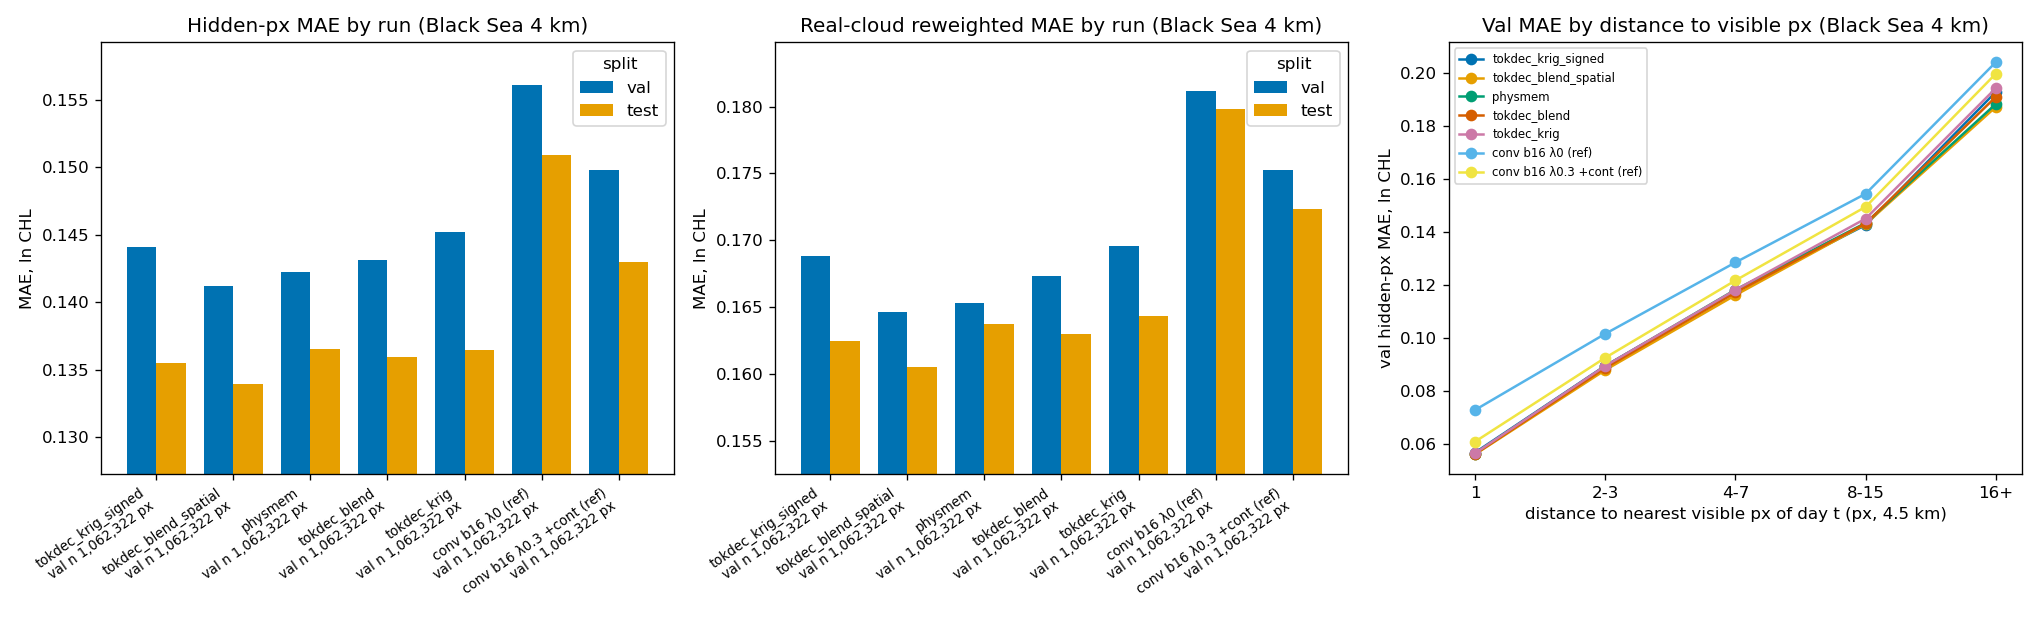
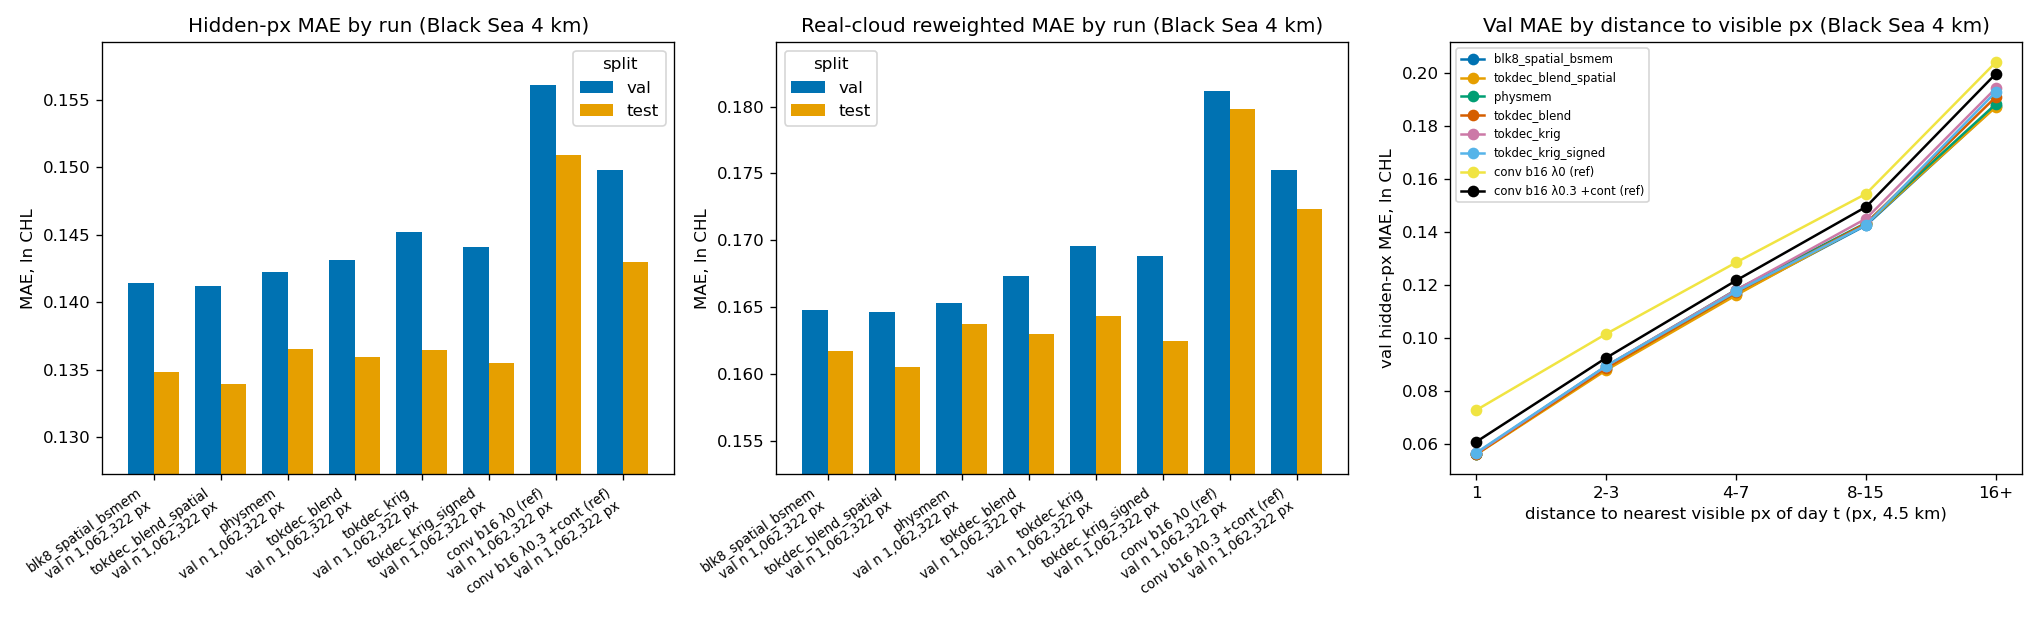
minor updates

diff --git a/analyses/FINDINGS.md b/analyses/FINDINGS.md
@@ -1067,3 +1067,59 @@ Cost: λ 0.3 median 107 s/epoch, peak 11.0 GB allocated / 15.0 GB reserved; λ 0
 - Half table n: A 2,022,116 px, B 2,976,526 px, test 5,522,954 px. Out-of-sample fitted − ens11_mean: half B (fitA) +0.00006, half A (fitB) -0.00026; test fitA -0.00014, fitB -0.00016.
 - Members' half MAE (A / B): io6_tokdec_blend_spatial 0.1323/0.1235, io4_tokdec_blend 0.1331/0.1238, io3_ptok4 0.1341/0.1242, io2_base_eval 0.1371/0.1254, io2_seed1 0.1365/0.1258, io2_seed2 0.1368/0.1260, io7_physmem 0.1316/0.1232, io6_tokdec_blend_spatial_s1 0.1321/0.1231, io6_tokdec_blend_spatial_s2 0.1321/0.1229, io7_wmattn 0.1336/0.1242, io7_analog 0.1326/0.1234.
 - Results results/ensemble.json; figure figures/ens_models.png.
+
+## io7 postrun: io7_physmem_s1 (IO; 2026-10-26 22:41 UTC; analyses/io7/postrun.py)
+- Run: t3d_stem tokdec, tokdec_blend True, tokdec_spatial 2, seed 1, epochs 60, batch 8, best_epoch 55. Val n: 1458 days, 4,998,642 hidden px; test n: 1463 days, 5,522,954.
+- Val / test MAE 0.126929 / 0.127905; RMSE 0.2194 / 0.2269; bias -0.0189 / -0.0197; non-finite 0 / 0.
+- Δ vs io6_tokdec_blend_spatial (0.127060 / 0.127516): val -0.00013, test +0.00039; ≥ 1 key +0.00041 / +0.00067; no key -0.00382 / -0.00278; real-cloud rw -0.00059 / -0.00011.
+- Δ vs io4_tokdec_blend (0.127585 / 0.127977): val -0.00066, test -0.00007; ≥ 1 key +0.00014 / +0.00052; no key -0.00610 / -0.00679; real-cloud rw -0.00135 / -0.00119.
+- Key split val / test: ≥ 1 key 0.11055 (n 4,359,604) / 0.11569 (n 5,074,031); no key 0.23867 (n 639,038) / 0.26602 (n 448,923).
+- Real-cloud reweighted MAE val / test: 0.15123 / 0.16951 (target: val real-cloud px, n 17,084,105; uncovered mass 0.0000 / 0.0000; test with the test days' real-cloud target 0.15177); io6_tokdec_blend_spatial 0.15182 / 0.16962, io4_tokdec_blend 0.15258 / 0.17071.
+- Gradient ratio/corr lags 1, 2, 4 px: val 0.546/0.627, 0.648/0.730, 0.745/0.813; test 0.564/0.628, 0.667/0.734, 0.762/0.819 (val lag-1 pairs 8,403,189).
+- Seed context io7_physmem (n 2: io7_physmem, io7_physmem_s1): val MAE mean 0.126746 [0.126563, 0.126929], run − mean +0.00018 (inside range); test MAE mean 0.127395 [0.126886, 0.127905], run − mean +0.00051 (inside range); real-cloud rw val mean 0.151042 [0.150853, 0.151231], run − mean +0.00019 (inside range); test mean 0.168481 [0.167446, 0.169515], run − mean +0.00103 (inside range).
+- Seed context io6_spatial (n 3: io6_tokdec_blend_spatial, io6_tokdec_blend_spatial_s1, io6_tokdec_blend_spatial_s2): val MAE mean 0.126802 [0.126605, 0.127060], run − mean +0.00013 (inside range); test MAE mean 0.127369 [0.127239, 0.127516], run − mean +0.00054 (outside range); real-cloud rw val mean 0.151392 [0.151021, 0.151820], run − mean -0.00016 (inside range); test mean 0.169290 [0.168915, 0.169622], run − mean +0.00022 (inside range).
+- Val MAE gain over conv ±4 seed 0 by distance to visible px (conv − run): 1 px +0.00032 (n 1,213,097), 2-3 px +0.00014 (n 898,560), 4-7 px +0.00091 (n 1,048,246), 8-15 px +0.00249 (n 880,930), 16+ px +0.01306 (n 957,809).
+
+## io7 postrun: io8_physmem_rwloss (IO; 2026-10-27 01:42 UTC; analyses/io7/postrun.py)
+- Run: t3d_stem tokdec, tokdec_blend True, tokdec_spatial 2, seed 0, epochs 60, batch 8, best_epoch 47, physmem True, rw_loss True, rw_cap 10.0, bsmem False, ptok_patch 4. Val n: 1458 days, 4,998,642 hidden px; test n: 1463 days, 5,522,954.
+- Val / test MAE 0.127378 / 0.127966; RMSE 0.2191 / 0.2258; bias -0.0186 / -0.0191; non-finite 0 / 0.
+- Δ vs io6_tokdec_blend_spatial (0.127060 / 0.127516): val +0.00032, test +0.00045; ≥ 1 key +0.00065 / +0.00082; no key -0.00194 / -0.00379; real-cloud rw -0.00002 / -0.00042.
+- Δ vs io4_tokdec_blend (0.127585 / 0.127977): val -0.00021, test -0.00001; ≥ 1 key +0.00038 / +0.00068; no key -0.00422 / -0.00780; real-cloud rw -0.00079 / -0.00151.
+- Key split val / test: ≥ 1 key 0.11079 (n 4,359,604) / 0.11584 (n 5,074,031); no key 0.24054 (n 639,038) / 0.26501 (n 448,923).
+- Real-cloud reweighted MAE val / test: 0.15180 / 0.16920 (target: val real-cloud px, n 17,084,105; uncovered mass 0.0000 / 0.0000; test with the test days' real-cloud target 0.15159); io6_tokdec_blend_spatial 0.15182 / 0.16962, io4_tokdec_blend 0.15258 / 0.17071.
+- Gradient ratio/corr lags 1, 2, 4 px: val 0.547/0.629, 0.650/0.732, 0.748/0.815; test 0.562/0.631, 0.667/0.737, 0.763/0.820 (val lag-1 pairs 8,403,189).
+- Seed context io7_physmem (n 2: io7_physmem, io7_physmem_s1): val MAE mean 0.126746 [0.126563, 0.126929], run − mean +0.00063 (outside range); test MAE mean 0.127395 [0.126886, 0.127905], run − mean +0.00057 (outside range); real-cloud rw val mean 0.151042 [0.150853, 0.151231], run − mean +0.00075 (outside range); test mean 0.168481 [0.167446, 0.169515], run − mean +0.00072 (inside range).
+- Seed context io6_spatial (n 3: io6_tokdec_blend_spatial, io6_tokdec_blend_spatial_s1, io6_tokdec_blend_spatial_s2): val MAE mean 0.126802 [0.126605, 0.127060], run − mean +0.00058 (outside range); test MAE mean 0.127369 [0.127239, 0.127516], run − mean +0.00060 (outside range); real-cloud rw val mean 0.151392 [0.151021, 0.151820], run − mean +0.00041 (inside range); test mean 0.169290 [0.168915, 0.169622], run − mean -0.00009 (inside range).
+- Val MAE gain over conv ±4 seed 0 by distance to visible px (conv − run): 1 px -0.00022 (n 1,213,097), 2-3 px -0.00012 (n 898,560), 4-7 px +0.00066 (n 1,048,246), 8-15 px +0.00254 (n 880,930), 16+ px +0.01188 (n 957,809).
+
+## blk7 postrun: blk8_spatial_p12 (Black Sea 4 km; 2026-10-27 02:38 UTC; analyses/io7/postrun.py)
+- Run: store blk4, crop True, val_stride 4, t3d_stem tokdec, tokdec_blend True, tokdec_spatial 2, tokdec_krig False, krig_signed False, physmem False, physmem_stride2 False, context 8, seed 0, epochs 60, batch 8, lr 0.001, lam 0.0, best_epoch 46, rw_loss False, rw_cap 10.0, bsmem False, ptok_patch 12. Val n: 182 days, 1,062,322 hidden px; test n: 183 days, 1,101,920.
+- Val / test MAE 0.149134 / 0.141411; RMSE 0.2409 / 0.2388; bias -0.0205 / -0.0345; non-finite 0 / 0.
+- Δ vs blk4_tokdec_blend_spatial (0.141189 / 0.133981): val +0.00794, test +0.00743; ≥ 1 key +0.00860 / +0.00766; no key -0.00264 / +0.00342; real-cloud rw +0.00819 / +0.00819.
+- Δ vs blk4_physmem (0.142260 / 0.136556): val +0.00687, test +0.00485; ≥ 1 key +0.00727 / +0.00511; no key +0.00046 / +0.00038; real-cloud rw +0.00746 / +0.00503.
+- Δ vs blk4_tokdec_blend (0.143159 / 0.135924): val +0.00597, test +0.00549; ≥ 1 key +0.00666 / +0.00585; no key -0.00507 / -0.00094; real-cloud rw +0.00549 / +0.00574.
+- Δ vs blk4_tokdec_krig (0.145181 / 0.136485): val +0.00395, test +0.00493; ≥ 1 key +0.00445 / +0.00553; no key -0.00412 / -0.00580; real-cloud rw +0.00323 / +0.00437.
+- Δ vs blk4_tokdec_krig_signed (0.144113 / 0.135502): val +0.00502, test +0.00591; ≥ 1 key +0.00584 / +0.00629; no key -0.00819 / -0.00082; real-cloud rw +0.00395 / +0.00627.
+- Δ vs blk4_t3d_c4_gdl100_lam0_b16_50ep (0.156113 / 0.150893): val -0.00698, test -0.00948; ≥ 1 key -0.00590 / -0.00837; no key -0.02434 / -0.02918; real-cloud rw -0.00839 / -0.01112.
+- Δ vs blk4_t3d_c4_gdl100_sl_lam0p3_b16_50ep_cont50_lr1e-4_cont50 (0.149787 / 0.142998): val -0.00065, test -0.00159; ≥ 1 key +0.00034 / -0.00052; no key -0.01660 / -0.02038; real-cloud rw -0.00250 / -0.00364.
+- Key split val / test: ≥ 1 key 0.14278 (n 1,000,176) / 0.13528 (n 1,042,846); no key 0.25144 (n 62,146) / 0.24969 (n 59,074).
+- Real-cloud reweighted MAE val / test: 0.17279 / 0.16873 (target: val real-cloud px, n 2,340,558; uncovered mass 0.0000 / 0.0000; test with the test days' real-cloud target 0.16737); blk4_tokdec_blend_spatial 0.16460 / 0.16054, blk4_physmem 0.16533 / 0.16370, blk4_tokdec_blend 0.16730 / 0.16299, blk4_tokdec_krig 0.16956 / 0.16436, blk4_tokdec_krig_signed 0.16884 / 0.16246, blk4_t3d_c4_gdl100_lam0_b16_50ep 0.18118 / 0.17985, blk4_t3d_c4_gdl100_sl_lam0p3_b16_50ep_cont50_lr1e-4_cont50 0.17529 / 0.17237.
+- Gradient ratio/corr lags 1, 2, 4 px: val 0.546/0.649, 0.604/0.729, 0.677/0.803; test 0.582/0.669, 0.639/0.745, 0.710/0.819 (val lag-1 pairs 2,067,873).
+- Note: blk4_t3d_* references use another recipe (conv ±4, batch 16, 50 epochs; the _sl_lam0p3_..._cont50 run: λ 0.3, semi-Lagrangian, 50 epochs then two 50-epoch continuations, the last at lr 1e-4); blk7 runs: batch 8, 60-epoch cosine, lr 1e-3, λ 0. Scored days: every 4th val / test day (--val-stride 4).
+- Val MAE gain over conv ±4 b16 50 ep (blk4_t3d_c4_gdl100_lam0_b16_50ep) by distance to visible px (conv − run): 1 px +0.01303 (n 138,579), 2-3 px +0.00835 (n 117,729), 4-7 px +0.00541 (n 157,936), 8-15 px +0.00456 (n 179,608), 16+ px +0.00630 (n 468,470).
+
+## blk7 postrun: blk8_spatial_bsmem (Black Sea 4 km; 2026-10-27 04:14 UTC; analyses/io7/postrun.py)
+- Run: store blk4, crop True, val_stride 4, t3d_stem tokdec, tokdec_blend True, tokdec_spatial 2, tokdec_krig False, krig_signed False, physmem False, physmem_stride2 False, context 8, seed 0, epochs 60, batch 8, lr 0.001, lam 0.0, best_epoch 59, rw_loss False, rw_cap 10.0, bsmem True, ptok_patch 4. Val n: 182 days, 1,062,322 hidden px; test n: 183 days, 1,101,920.
+- Val / test MAE 0.141390 / 0.134847; RMSE 0.2325 / 0.2302; bias -0.0053 / -0.0232; non-finite 0 / 0.
+- Δ vs blk4_tokdec_blend_spatial (0.141189 / 0.133981): val +0.00020, test +0.00087; ≥ 1 key +0.00032 / +0.00064; no key -0.00177 / +0.00484; real-cloud rw +0.00017 / +0.00119.
+- Δ vs blk4_physmem (0.142260 / 0.136556): val -0.00087, test -0.00171; ≥ 1 key -0.00101 / -0.00191; no key +0.00133 / +0.00180; real-cloud rw -0.00057 / -0.00197.
+- Δ vs blk4_tokdec_blend (0.143159 / 0.135924): val -0.00177, test -0.00108; ≥ 1 key -0.00162 / -0.00117; no key -0.00421 / +0.00048; real-cloud rw -0.00253 / -0.00126.
+- Δ vs blk4_tokdec_krig (0.145181 / 0.136485): val -0.00379, test -0.00164; ≥ 1 key -0.00382 / -0.00148; no key -0.00325 / -0.00438; real-cloud rw -0.00480 / -0.00263.
+- Δ vs blk4_tokdec_krig_signed (0.144113 / 0.135502): val -0.00272, test -0.00065; ≥ 1 key -0.00244 / -0.00073; no key -0.00732 / +0.00060; real-cloud rw -0.00408 / -0.00073.
+- Δ vs blk4_t3d_c4_gdl100_lam0_b16_50ep (0.156113 / 0.150893): val -0.01472, test -0.01605; ≥ 1 key -0.01418 / -0.01538; no key -0.02348 / -0.02776; real-cloud rw -0.01642 / -0.01811.
+- Δ vs blk4_t3d_c4_gdl100_sl_lam0p3_b16_50ep_cont50_lr1e-4_cont50 (0.149787 / 0.142998): val -0.00840, test -0.00815; ≥ 1 key -0.00794 / -0.00754; no key -0.01573 / -0.01896; real-cloud rw -0.01053 / -0.01064.
+- Key split val / test: ≥ 1 key 0.13450 (n 1,000,176) / 0.12826 (n 1,042,846); no key 0.25231 (n 62,146) / 0.25111 (n 59,074).
+- Real-cloud reweighted MAE val / test: 0.16477 / 0.16173 (target: val real-cloud px, n 2,340,558; uncovered mass 0.0000 / 0.0000; test with the test days' real-cloud target 0.16045); blk4_tokdec_blend_spatial 0.16460 / 0.16054, blk4_physmem 0.16533 / 0.16370, blk4_tokdec_blend 0.16730 / 0.16299, blk4_tokdec_krig 0.16956 / 0.16436, blk4_tokdec_krig_signed 0.16884 / 0.16246, blk4_t3d_c4_gdl100_lam0_b16_50ep 0.18118 / 0.17985, blk4_t3d_c4_gdl100_sl_lam0p3_b16_50ep_cont50_lr1e-4_cont50 0.17529 / 0.17237.
+- Gradient ratio/corr lags 1, 2, 4 px: val 0.556/0.662, 0.617/0.742, 0.690/0.816; test 0.592/0.685, 0.653/0.761, 0.725/0.833 (val lag-1 pairs 2,067,873).
+- Note: blk4_t3d_* references use another recipe (conv ±4, batch 16, 50 epochs; the _sl_lam0p3_..._cont50 run: λ 0.3, semi-Lagrangian, 50 epochs then two 50-epoch continuations, the last at lr 1e-4); blk7 runs: batch 8, 60-epoch cosine, lr 1e-3, λ 0. Scored days: every 4th val / test day (--val-stride 4).
+- Val MAE gain over conv ±4 b16 50 ep (blk4_t3d_c4_gdl100_lam0_b16_50ep) by distance to visible px (conv − run): 1 px +0.01653 (n 138,579), 2-3 px +0.01323 (n 117,729), 4-7 px +0.01195 (n 157,936), 8-15 px +0.01191 (n 179,608), 16+ px +0.01658 (n 468,470).

diff --git a/models/RUNS.md b/models/RUNS.md
@@ -1,6 +1,6 @@
 # Training runs: index
 
-Generated 2026-10-26 11:07 by `python -m chl_cnn.runs_index` (446 runs). What each round found, and why it was run: [analyses/FINDINGS.md](../analyses/FINDINGS.md).
+Generated 2026-10-27 04:17 by `python -m chl_cnn.runs_index` (448 runs). What each round found, and why it was run: [analyses/FINDINGS.md](../analyses/FINDINGS.md).
 
 - **val / test MAE**: hidden-pixel MAE in ln CHL (fake clouds from a donor day). Best val epoch; test at that epoch. Only comparable within one region and one `val_stride` / `donor_exclude` setting.
 - **settings**: non-default flags only (see the trainer docstrings). `stop_epoch=N`: the schedule spans `epochs` but training stopped at N.
@@ -99,7 +99,7 @@ Generated 2026-10-26 11:07 by `python -m chl_cnn.runs_index` (446 runs). What ea
 | deq_unroll_k1 | Indian Ocean | deq feat=9 ctx=2 vis_weight=0.1 width=64 donor_window=15 epochs=12 year_input phys=upwind batch=8 | 0.1449 | 0.1484 | 12 | 2026-10-11 | done, weights |
 | deq_and24 | Indian Ocean | deq feat=9 ctx=2 vis_weight=0.1 width=64 donor_window=15 epochs=12 year_input phys=upwind batch=8 | 0.1581 | 0.1632 | 12 | 2026-10-13 | done, weights |
 
-## pinn/t3d (230 runs)
+## pinn/t3d (232 runs)
 
 | run | region | settings | val MAE | test MAE | epochs | finished | status |
 |---|---|---|---|---|---|---|---|
@@ -125,6 +125,8 @@ Generated 2026-10-26 11:07 by `python -m chl_cnn.runs_index` (446 runs). What ea
 | blk4_tokdec_blend_spatial | Black Sea 4 km | store=blk4 temporal3d feat=8 ctx=8 vis_weight=0.1 grad_weight=100.0 width=64 donor_window=15 epochs=60 year_input blocks=8 phys=semi-lagrangian batch=8 | 0.1412 | 0.1340 | 60 | 2026-10-26 | done, weights |
 | blk4_tokdec_krig | Black Sea 4 km | store=blk4 temporal3d feat=8 ctx=8 vis_weight=0.1 grad_weight=100.0 width=64 donor_window=15 epochs=60 year_input blocks=8 phys=semi-lagrangian batch=8 | 0.1452 | 0.1365 | 60 | 2026-10-26 | done, weights |
 | blk4_tokdec_krig_signed | Black Sea 4 km | store=blk4 temporal3d feat=8 ctx=8 vis_weight=0.1 grad_weight=100.0 width=64 donor_window=15 epochs=60 year_input blocks=8 phys=semi-lagrangian batch=8 | 0.1441 | 0.1355 | 60 | 2026-10-26 | done, weights |
+| blk8_spatial_bsmem | Black Sea 4 km | store=blk4 temporal3d feat=8 ctx=8 vis_weight=0.1 grad_weight=100.0 width=64 donor_window=15 epochs=60 year_input blocks=8 phys=semi-lagrangian batch=8 | 0.1414 | 0.1348 | 60 | 2026-10-27 | done, weights |
+| blk8_spatial_p12 | Black Sea 4 km | store=blk4 temporal3d feat=8 ctx=8 vis_weight=0.1 grad_weight=100.0 width=64 donor_window=15 epochs=60 year_input blocks=8 phys=semi-lagrangian batch=8 | 0.1491 | 0.1414 | 60 | 2026-10-27 | done, weights |
 | t3d_dil_c2 | Indian Ocean | temporal3d feat=9 ctx=2 vis_weight=0.1 width=64 donor_window=15 epochs=20 year_input phys=upwind batch=8 | 0.1406 | 0.1434 | 20 | 2026-10-14 | done, weights |
 | t3d_dil_c4 | Indian Ocean | temporal3d feat=9 ctx=4 vis_weight=0.1 width=64 donor_window=15 epochs=20 year_input phys=upwind batch=8 | 0.1378 | 0.1398 | 20 | 2026-10-14 | done, weights |
 | t3d_dil_c4_60ep | Indian Ocean | temporal3d feat=9 ctx=4 vis_weight=0.1 width=64 donor_window=15 epochs=60 year_input phys=upwind batch=8 | 0.1331 | 0.1344 | 60 | 2026-10-14 | done, weights |
@@ -331,8 +333,8 @@ Generated 2026-10-26 11:07 by `python -m chl_cnn.runs_index` (446 runs). What ea
 | io7_wmattn | Indian Ocean | temporal3d feat=9 ctx=8 vis_weight=0.1 grad_weight=100.0 width=64 donor_window=15 epochs=60 year_input blocks=8 phys=upwind batch=8 | 0.1280 | 0.1283 | 60 | 2026-10-25 | done, weights |
 | io7_wmattn_init | Indian Ocean | temporal3d feat=9 ctx=8 vis_weight=0.1 grad_weight=100.0 width=64 donor_window=15 epochs=60 year_input blocks=8 phys=upwind batch=8 stop_epoch=1 | 0.2616 | 0.2859 | 1 | 2026-10-25 | done, weights |
 | io7_wmattn_smoke | Indian Ocean | temporal3d feat=9 ctx=8 vis_weight=0.1 grad_weight=100.0 width=64 donor_window=15 epochs=60 year_input blocks=8 phys=upwind batch=8 stop_epoch=2 | 0.1657 | 0.1663 | 2 | 2026-10-25 | done, weights |
-| io7_regcheck_default_eval | Indian Ocean | temporal3d feat=9 ctx=4 vis_weight=0.1 grad_weight=100.0 width=64 donor_window=15 epochs=60 year_input blocks=8 phys=upwind batch=8 init_from=t3d_dil_c4_60ep_gdl100 | nan | 0.1305 |  | 2026-10-26 | done, weights |
-| io7_regcheck_spatial_eval | Indian Ocean | temporal3d feat=9 ctx=8 vis_weight=0.1 grad_weight=100.0 width=64 donor_window=15 epochs=60 year_input blocks=8 phys=upwind batch=8 init_from=io6_tokdec_blend_spatial | nan | 0.1275 |  | 2026-10-26 | done, weights |
+| io7_physmem_s1 | Indian Ocean | temporal3d feat=9 ctx=15 vis_weight=0.1 grad_weight=100.0 width=64 donor_window=15 epochs=60 year_input blocks=8 phys=upwind batch=8 | 0.1269 | 0.1279 | 60 | 2026-10-26 | done, weights |
+| io8_physmem_rwloss | Indian Ocean | temporal3d feat=9 ctx=15 vis_weight=0.1 grad_weight=100.0 width=64 donor_window=15 epochs=60 year_input blocks=8 phys=upwind batch=8 | 0.1274 | 0.1280 | 60 | 2026-10-27 | done, weights |
 
 ## pinn/upstream (14 runs)
 
